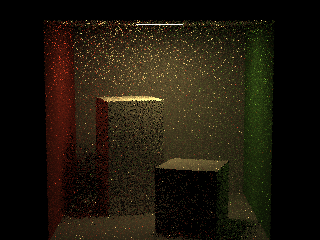
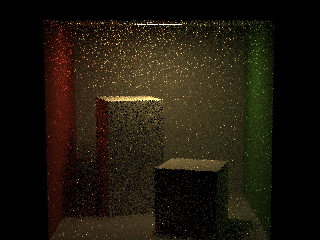
Add HaltonRand algorithm

diff --git a/WorkingProject/main.cpp b/WorkingProject/main.cpp
@@ -22,9 +22,17 @@ using namespace glm;
 
 const float EPS = 1e-5f;
 
-const int MAX_PATHS = 1; // 32
-const int MAX_BOUNCE = 4; // 4
-const int SEED = 127;
+const int MAX_PATHS = 1000; // 32
+const int MAX_BOUNCE = 100; // 4
+const int SEED = 133;
+
+const uint32_t primeNumbers[32] = {2, 3, 5, 7, 11, 13, 17, 19, 23, 29, 31, 37, 41, 43, 47, 53, 59, 61, 67, 71, 73, 79,
+                                    83, 89, 97, 101, 103, 107, 109, 113, 127, 131};
+
+enum random_generator {
+    Default, LinearCongruential, MersenneTwister, SubtractWithCarry, ShuffleOrder
+};
+random_generator random_generator_type = LinearCongruential;
 
 enum struct SampleDimension : uint32_t {
     ePixelX,
@@ -43,7 +51,7 @@ enum struct SampleDimension : uint32_t {
 struct SamplerState {
     uint32_t seed;
     uint32_t sampleIdx;
-    uint32_t depth = 4;
+    uint32_t depth = 0;
 };
 
 static SamplerState initSampler(uint32_t linearPixelIndex, uint32_t pixelSampleIndex, uint32_t seed) {
@@ -53,66 +61,35 @@ static SamplerState initSampler(uint32_t linearPixelIndex, uint32_t pixelSampleI
     return sampler;
 }
 
-template<SampleDimension Dim>
-float random(SamplerState &state) {
-//    const uint32_t dimension = uint32_t(Dim) + state.depth * uint32_t(SampleDimension::eNUM_DIMENSIONS);
-//    const uint32_t base = primeNumbers[dimension & 31u];
-//    return halton(state.seed + state.sampleIdx, base); // could be random from std
+float HaltonRand(uint32_t index, const uint32_t base) {
+    float f = 1;
+    float result = 0;
 
-    static std::linear_congruential_engine<uint32_t, 48271, uint32_t(Dim), 2147483647> generator(state.seed);
-    static std::uniform_real_distribution<float> distribution(0.0, 1.0);
-    ++state.sampleIdx;
+    while (std::fabs(index) > 1e-6) {
+        f = f / float(base);
+        result = result + f * float(index % base);
+        index /= base;
+    }
 
-    return distribution(generator);
+    return result;
 }
 
-enum random_generator {
-    Default, LinearCongruential, MersenneTwister, SubtractWithCarry, ShuffleOrder
-};
-random_generator random_generator_type = LinearCongruential;
+template<SampleDimension Dim>
+float random(SamplerState &state) {
+    const uint32_t dimension = uint32_t(Dim) + state.depth * uint32_t(SampleDimension::eNUM_DIMENSIONS);
+    const uint32_t base = primeNumbers[dimension & 31u];
+    if (HaltonRand(state.seed + state.sampleIdx, base) > 1 || HaltonRand(state.seed + state.sampleIdx, base) < 0) {
+        std::cerr << "\n\nERROR\n\n";
+        return 0;
+    }
+    return HaltonRand(state.seed + state.sampleIdx, base); // could be random from std
 
-//float getRandom() {
+//    static std::linear_congruential_engine<uint32_t, 48271, uint32_t(Dim), 2147483647> generator(state.seed + state.sampleIdx + state.depth * MAX_PATHS);
+//    static std::uniform_real_distribution<float> distribution(0.0, 1.0);
+//    ++state.depth;
 //
-//    switch (random_generator_type) {
-//
-//        case LinearCongruential: { // Newer "Minimum standard", recommended by Park, Miller, and Stockmeyer in 1993
-//            static std::linear_congruential_engine<std::uint_fast32_t, 48271, 0, 2147483647> generator;
-//            static std::uniform_real_distribution<float> distribution(0.0, 1.0);
-//
-//            return distribution(generator);
-//        }
-//
-//        case MersenneTwister: { // 64-bit Mersenne Twister by Matsumoto and Nishimura, 2000
-//            static std::mersenne_twister_engine<std::uint_fast64_t, 64, 312, 156, 31,
-//                    0xb5026f5aa96619e9, 29, 0x5555555555555555, 17, 0x71d67fffeda60000, 37,
-//                    0xfff7eee000000000, 43, 6364136223846793005> generator;
-//            static std::uniform_real_distribution<float> distribution(0.0, 1.0);
-//
-//            return distribution(generator);
-//        }
-//
-//        case SubtractWithCarry: {
-//            static std::subtract_with_carry_engine<std::uint_fast64_t, 48, 5, 12> generator;
-//            static std::uniform_real_distribution<float> distribution(0.0, 1.0);
-//
-//            return distribution(generator);
-//        }
-//
-//        case ShuffleOrder: {
-//            static std::shuffle_order_engine<std::minstd_rand, 256> generator;
-//            static std::uniform_real_distribution<float> distribution(0.0, 1.0);
-//
-//            return distribution(generator);
-//        }
-//
-//        default: {
-//            static std::default_random_engine generator;
-//            static std::uniform_real_distribution<float> distribution(0.0, 1.0);
-//
-//            return distribution(generator);
-//        }
-//    }
-//}
+//    return distribution(generator);
+}
 
 struct Ray {
     vec4 o;
@@ -350,8 +327,8 @@ int main() {
 //    int width = 1440;
 //    int height = 1080;
 
-    std::string modelPath = "assets/CornellBox-Original.obj";
-    std::string materialPath = "assets/";
+    std::string modelPath = "../assets/CornellBox-Original.obj";
+    std::string materialPath = "../assets/";
 
     // std::string filename = "./media/CornellBox/CornellBox-Empty-RG.obj";
     // std::string filename = "./media/CornellBox/CornellBox-Sphere.obj";
@@ -495,9 +472,10 @@ int main() {
     const int numPixels = height * width;
     std::vector<uint8_t> pixels(numPixels * 4);
     std::vector<vec4> colors(numPixels, vec4(0.0f));
-    for (int path = 0; path < MAX_PATHS; ++path) {
 
-        std::vector<SamplerState> raysStates;
+    std::vector<SamplerState> raysStates;
+
+    for (int path = 0; path < MAX_PATHS; ++path) {
 
         std::clog << "\rPaths left: " << MAX_PATHS - path << "    " << std::flush;
         // generate primary rays
@@ -702,26 +680,9 @@ int main() {
         pixels[h * (width * 4) + (w * 4) + 2] = std::min(255, std::max(0, b));
         pixels[h * (width * 4) + (w * 4) + 3] = 255;
     }
-    std::string outputFileName = "../ResultsWithNewInterface/";
+    std::string outputFileName = "../ResultsWithNewInterface/Halton/";
     outputFileName += std::to_string(MAX_PATHS) + '_';
-    outputFileName += std::to_string(MAX_BOUNCE) + '_';
-    switch (random_generator_type) {
-        case LinearCongruential:
-            outputFileName += "LinearCongruential";
-            break;
-        case MersenneTwister:
-            outputFileName += "MersenneTwister";
-            break;
-        case SubtractWithCarry:
-            outputFileName += "SubtractWithCarry";
-            break;
-        case ShuffleOrder:
-            outputFileName += "ShuffleOrder";
-            break;
-        default:
-            outputFileName += "Default";
-    }
-    outputFileName += "New.png";
+    outputFileName += std::to_string(MAX_BOUNCE) + ".png";
     stbi_write_png(outputFileName.c_str(), width, height, 4, pixels.data(), 0);
 
     return 0;
